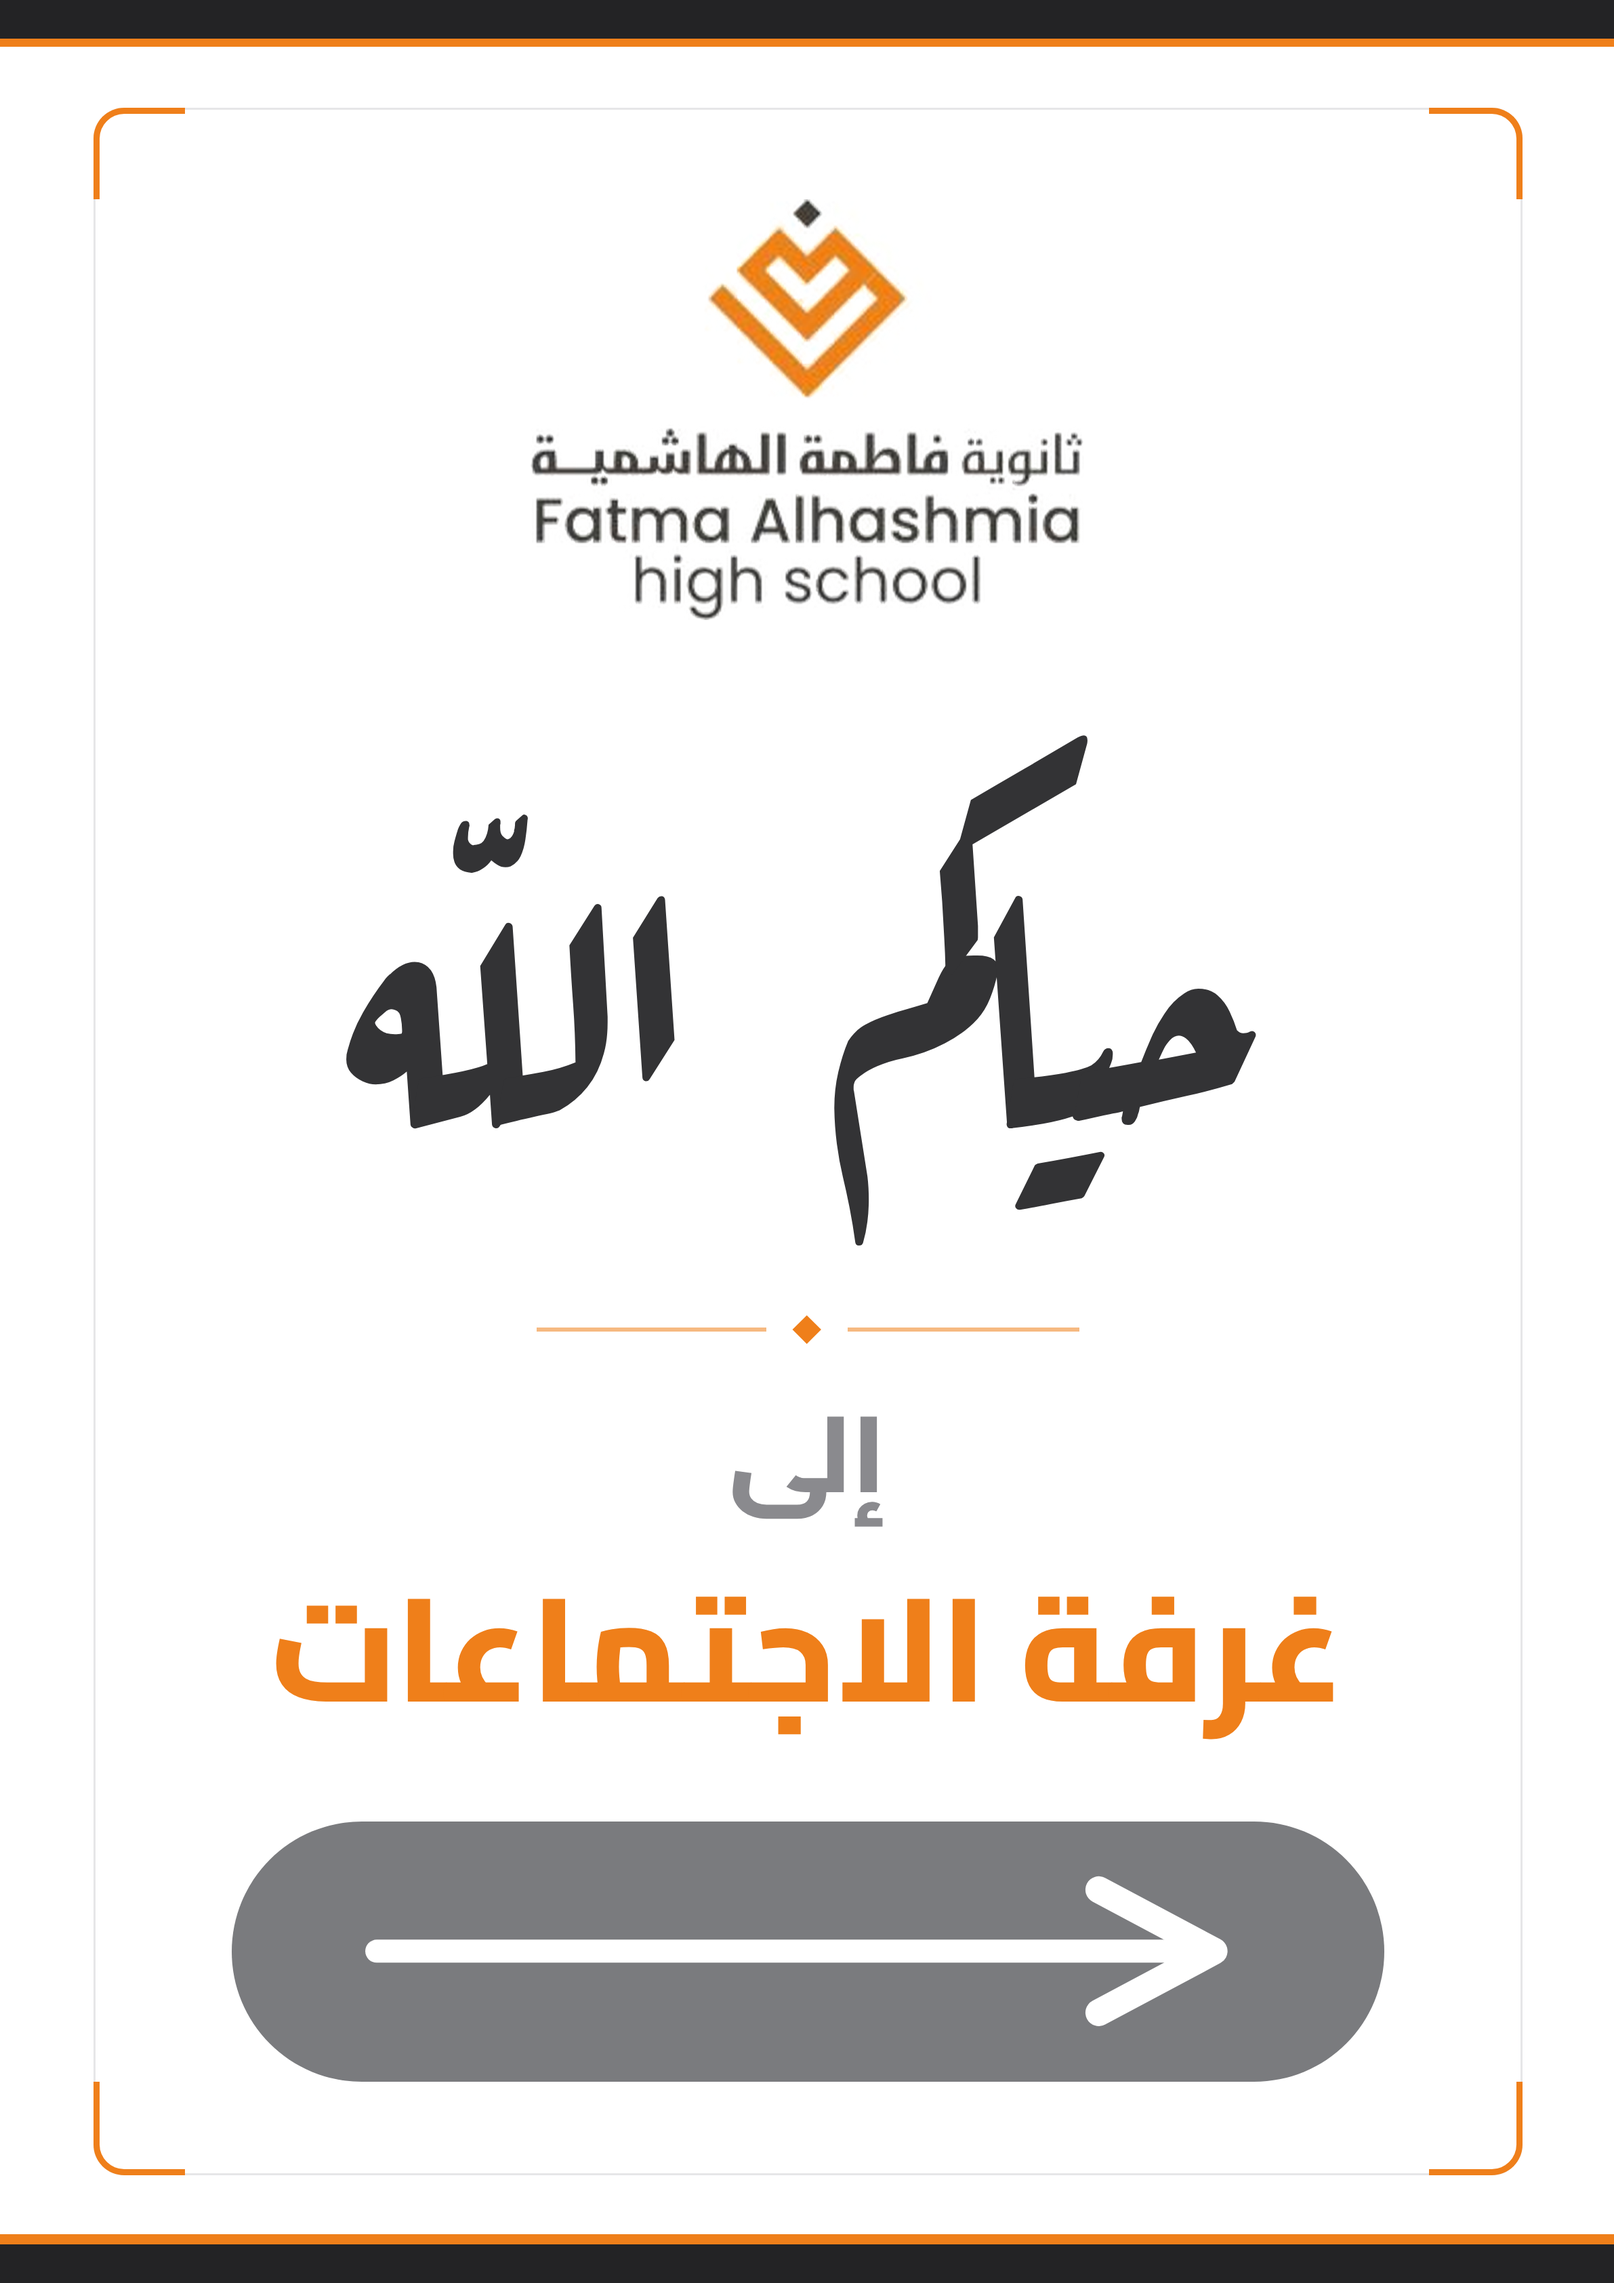
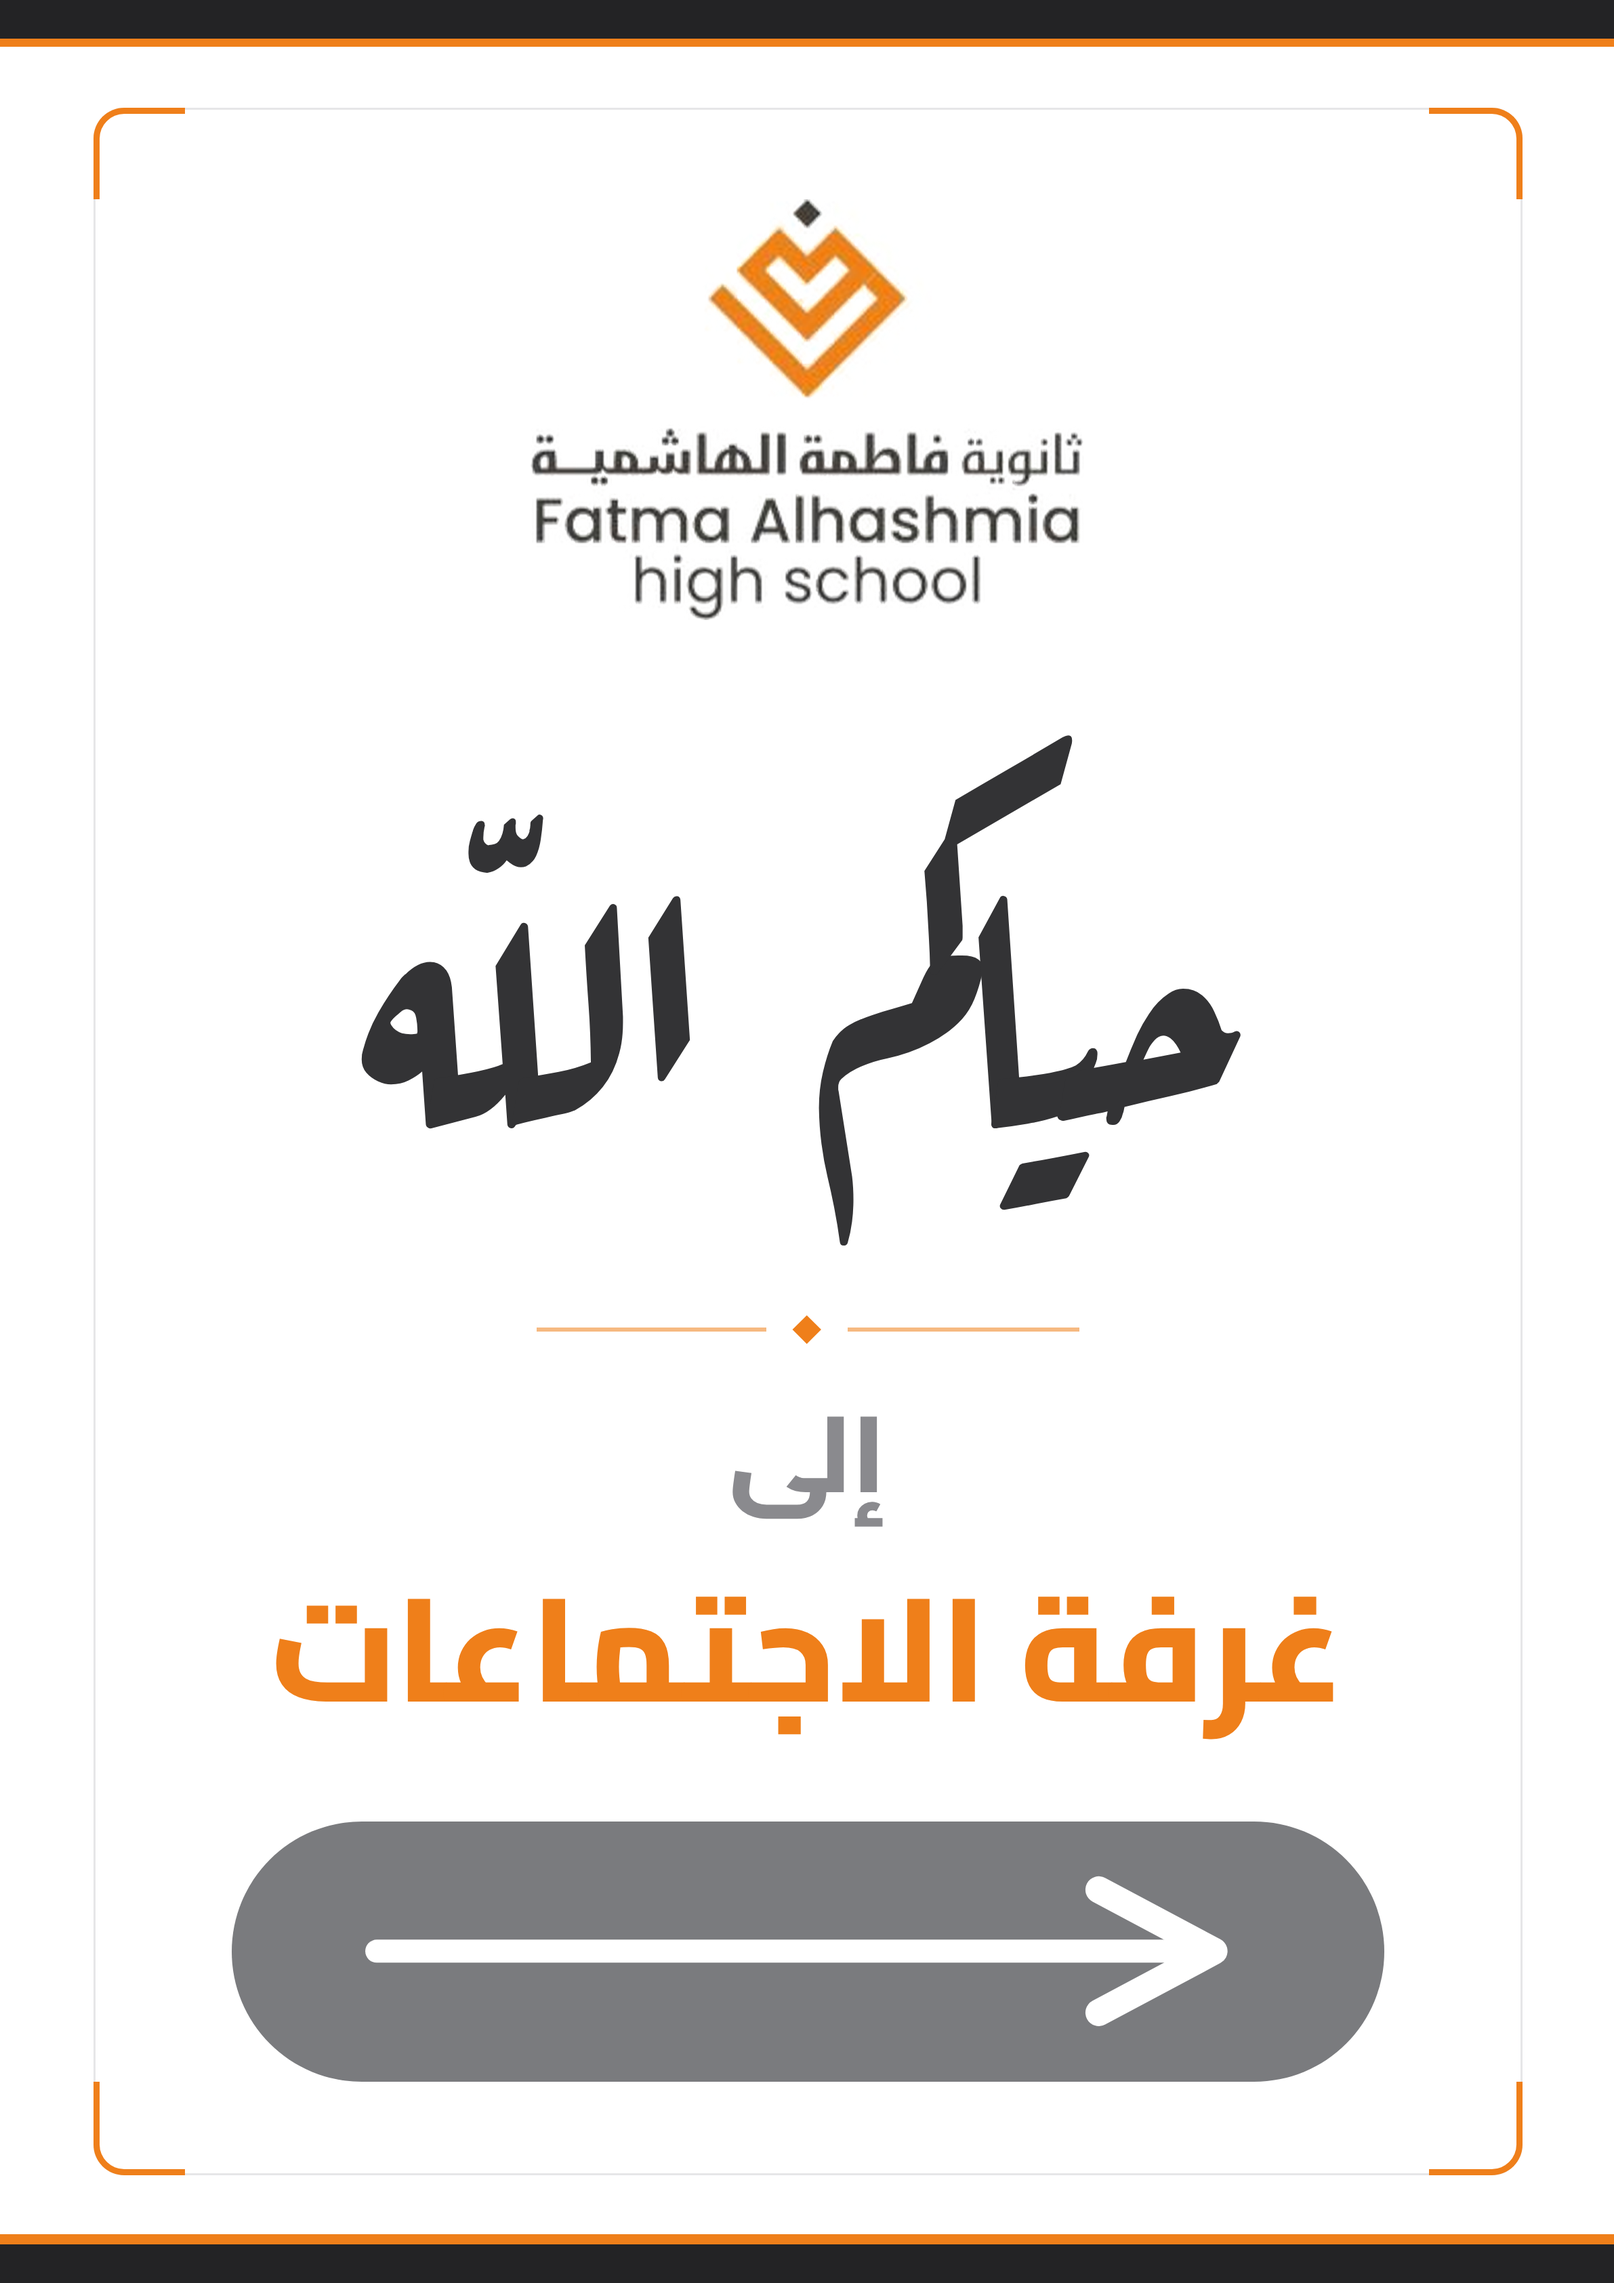
Add heading font options sheet for meeting room sign
Claude-Session: https://claude.ai/code/session_01DpSeFs21GxZtkcHxv7pLCp

Changed region(s): [[0.4971, 0.3117, 0.6835, 0.561], [0.2175, 0.3428, 0.4349, 0.4987], [0.6835, 0.4363, 0.7767, 0.4987]]

diff --git a/signage/meeting-room-sign.html b/signage/meeting-room-sign.html
@@ -30,7 +30,7 @@
   .logo{width:72mm;height:auto;display:block;margin-top:4mm}
 
   .content{display:flex;flex-direction:column;align-items:center;justify-content:center;text-align:center;width:100%}
-  .welcome{font-family:'Aref Ruqaa',serif;font-weight:700;font-size:44mm;line-height:1.55;color:var(--ink);padding-bottom:2mm;word-spacing:12mm}
+  .welcome{font-family:'Aref Ruqaa',serif;font-weight:700;font-size:44mm;line-height:1.55;color:var(--ink);padding-bottom:2mm;word-spacing:8mm;white-space:nowrap}
   .rule{display:flex;align-items:center;gap:4mm;margin:10mm 0 8mm}
   .rule span{width:30mm;height:.4mm;background:var(--orange);opacity:.55}
   .rule i{width:2.6mm;height:2.6mm;background:var(--orange);transform:rotate(45deg)}
@@ -54,7 +54,7 @@
   <img class="logo" src="school-logo.png" alt="شعار ثانوية فاطمة الهاشمية">
 
   <div class="content">
-    <div class="welcome">حياكم اللّه</div>
+    <div class="welcome">حيـــاكــم اللّـــه</div>
     <div class="rule"><span></span><i></i><span></span></div>
     <div class="to">إلى</div>
     <div class="room">غرفة الاجتماعات</div>
